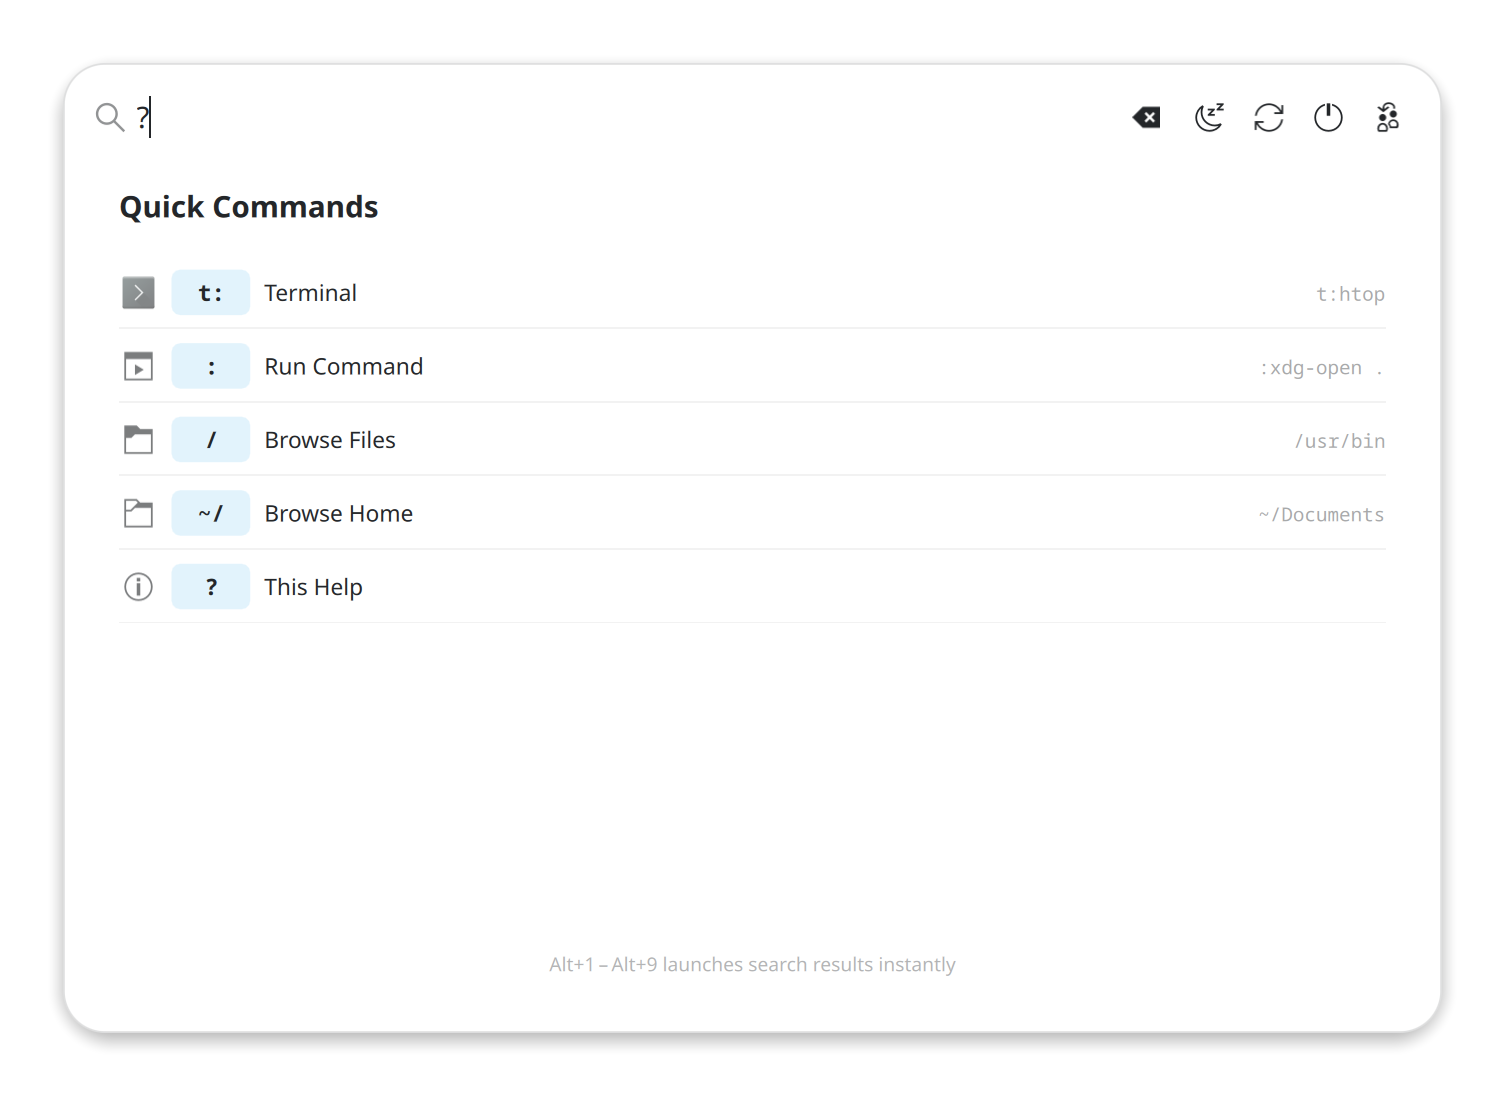
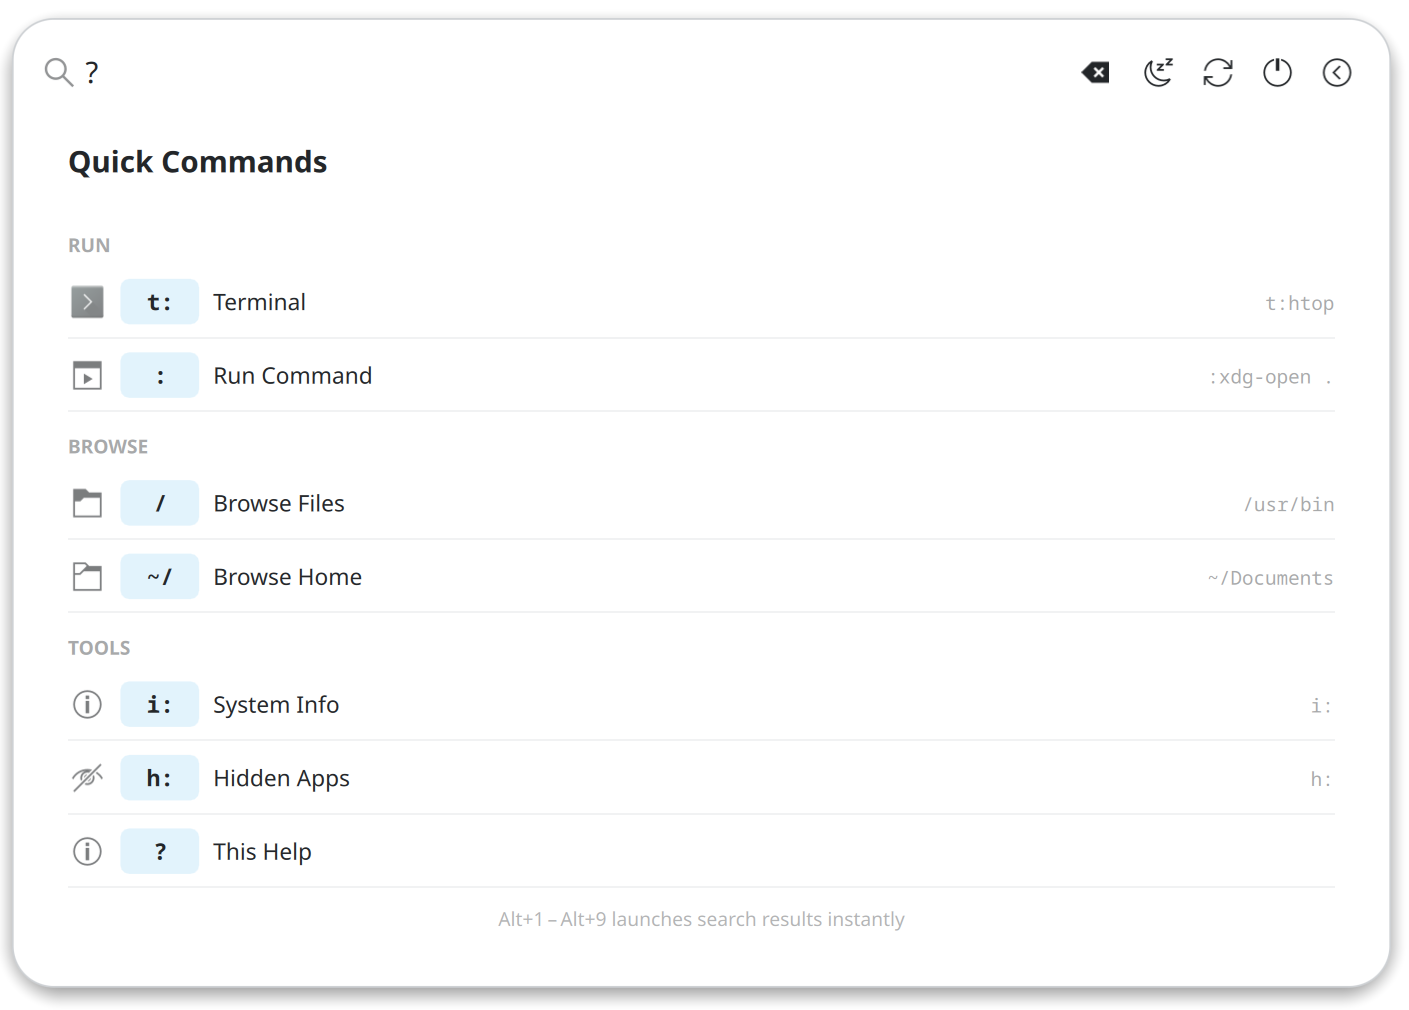
update README

diff --git a/README.md b/README.md
@@ -61,8 +61,10 @@ KDE Plasma ships with Kickoff and Kicker as its default application launchers. W
 - **Quick commands** — terminal (`t:`), shell commands (`:`), file browser (`/`), system info (`i:`), hidden apps manager (`h:`), help (`?`)
 - **Keyword search** — matches desktop file keywords (e.g., typing "browser" finds Firefox)
 - **Search ranking** — results ranked by match quality (name prefix > substring > generic name > keyword)
+- **Install source detection** — search by "flatpak", "snap", or "web app"; source badges in search results and tooltips
+- **App tooltips** — hover for app description and install source (Flatpak, Snap, AppImage, Web App)
 - **Multi-category** — apps appear in all matching categories, not just the first
-- **By Category sort** — groups apps by category with section headers and scrollable navigation
+- **By Category sort** — groups apps by category with section headers, keyboard navigation, and scrollable category bar
 - **Open/close animations** — Fade, Scale, Pop, Slide Up/Down, Glide, Buzz, Twist, Slam, or None
 - **Icon animations** — shake, grow, bounce, spin, shuffle, or none
 - **Multi-monitor** — open on active screen or panel screen
@@ -190,6 +192,7 @@ Right-click the AppGrid panel icon → **Configure AppGrid** → **General**.
 | **Hide empty categories** | Hide categories with no apps | On |
 | **Show divider lines** | Show dividers between UI sections | On |
 | **Show scrollbars** | Show scrollbars in grid and search | Off |
+| **Show tooltips on hover** | Show app description and install source on hover | On |
 | **Open/close animation** | None, Fade, Scale, Pop, Slide Up/Down, Glide, Buzz, Twist, Slam | Scale |
 | **Enable background blur** | Blur behind the launcher (Center only) | On |
 | **Dim background** | Darken the screen behind the launcher (Center only) | Off |
